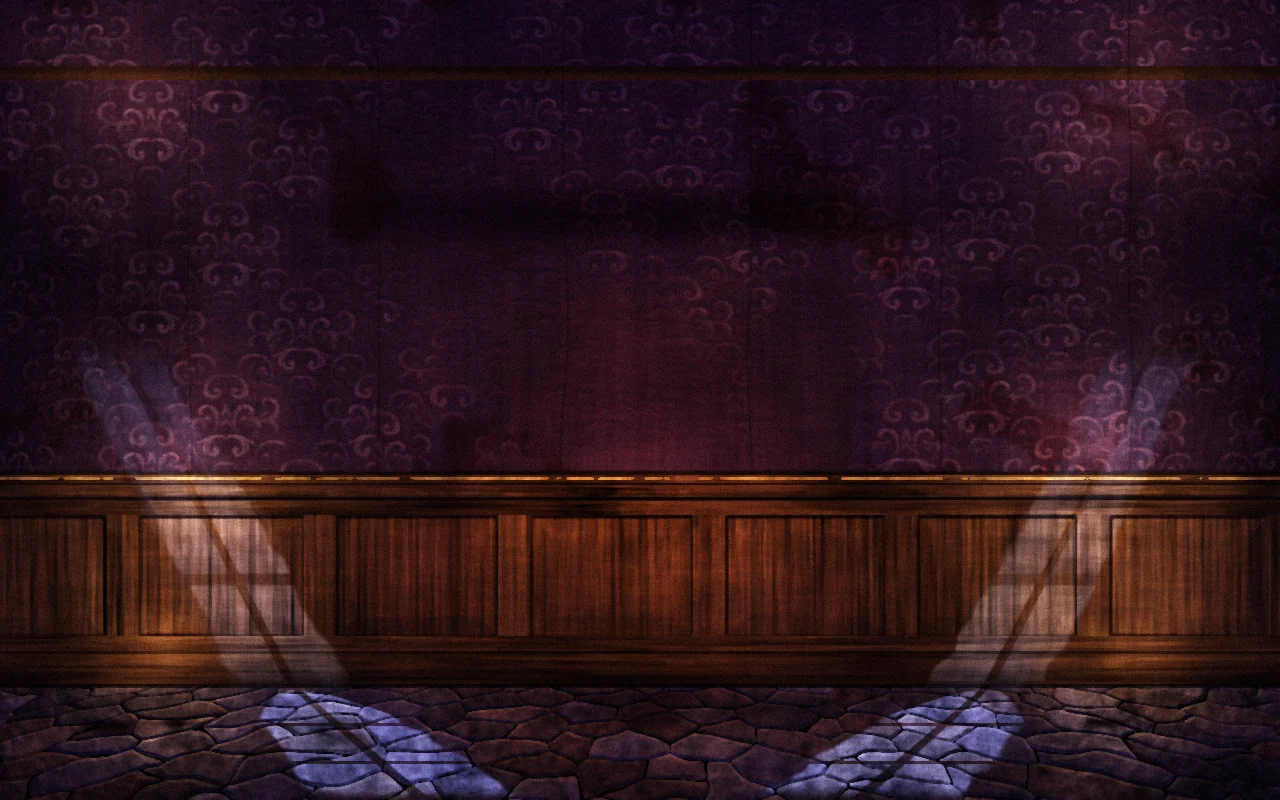
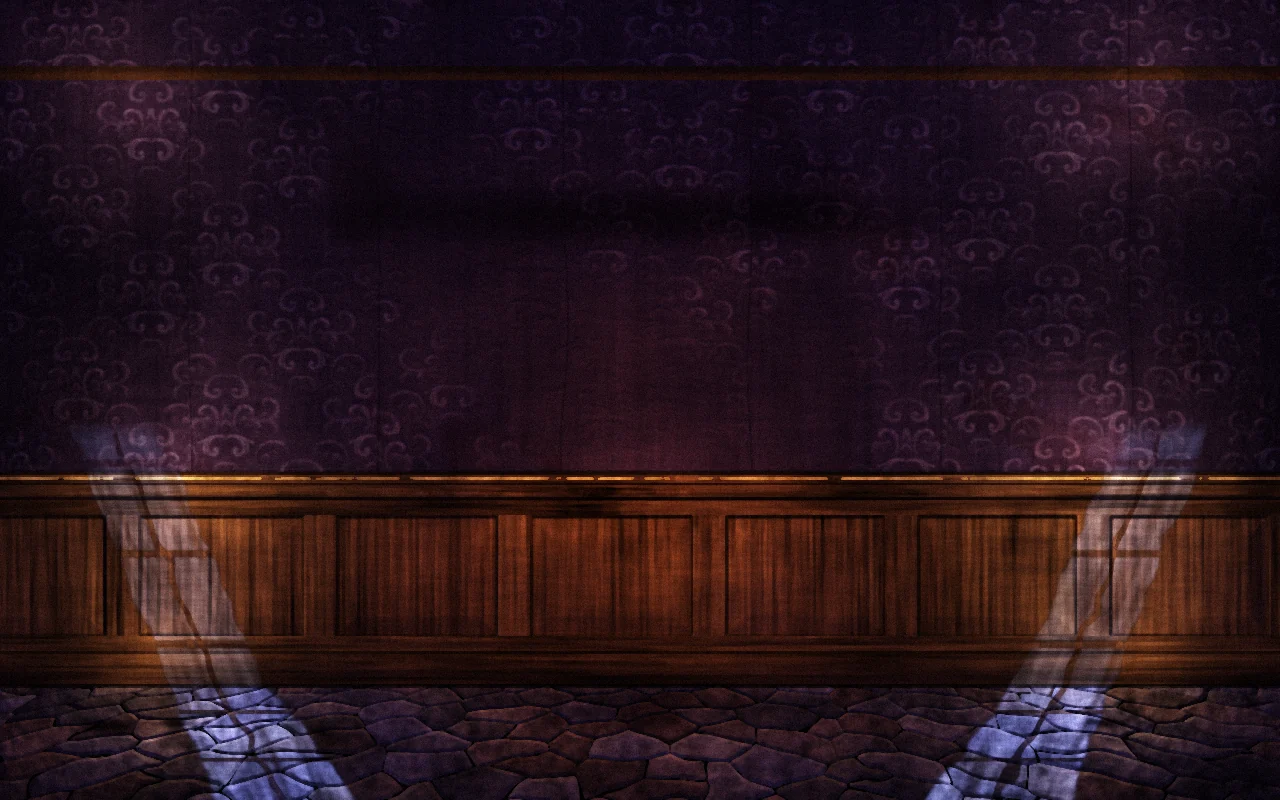
Round 57 graft onto JASPER: won 16 of 20 blind paired votes
CITRINE's scrolled condition plaques, memorial rows, full-height alcove, leather
well and Mr. Moth's plate; MALACHITE's torn leaf, slips and folded bookmark;
JASPER's own moon repainted as one shaft from sill to flags on aubergine paper.
A darker rug and stouter console lost all 4 votes on rest, so rest stays JASPER's.

Changed region(s): [[0.0625, 0.4375, 0.4062, 1.0], [0.5938, 0.4688, 0.9375, 1.0]]

diff --git a/game/src/scenes/event.css b/game/src/scenes/event.css
@@ -1269,34 +1269,37 @@
   .rm--event .kit-ground { background-image: url("../../assets/ui/r57-jasper/event-room-1280.webp"); }
 }
 
-/* Each choice is a slip of old card, torn by hand and scorched at the tear; its
-   shadow lies on the page. Held by the keys it is ringed in the clerk red, a
-   crisp line, never a glow. */
-.ev-register .ev-opt, .ev-register .ev-opt:first-child {
-  background: url("../../assets/ui/r57-jasper/slip-a.webp") 50% 50% / 100% 100% no-repeat;
-  filter: drop-shadow(1px 2px 1px color-mix(in srgb, var(--kit-paper-ink) 85%, transparent)) drop-shadow(3px 6px 4px color-mix(in srgb, var(--kit-paper-ink) 45%, transparent));
+/* Round57 graft, MALACHITE's: both judges named this sheet the best object in the round. A
+   handled leaf with torn sides, slips scorched in fibres with a real shadow on the page, and
+   the red ribbon as folded cloth. Held by the keys a slip is ringed in the clerk red. */
+.ev-painted-stand-r49 .ev-page.ev-register {
+ background: url("../../assets/ui/r57-malachite/parchment.webp") 0 0 / 100% 100% no-repeat;
+ background-blend-mode: normal; box-shadow: none;
+ border-color: transparent; border-image: none;
+ filter: none;
 }
-.ev-register .ev-opt:nth-child(2n) { background-image: url("../../assets/ui/r57-jasper/slip-b.webp"); }
-.ev-register .ev-opt:hover:not(:disabled), .ev-register .ev-opt:focus-visible {
-  background: radial-gradient(90% 120% at 22% 50%, color-mix(in srgb, var(--kit-parchment) 30%, transparent), transparent 70%), url("../../assets/ui/r57-jasper/slip-a.webp") 50% 50% / 100% 100% no-repeat;
-  filter: drop-shadow(2px 3px 1px color-mix(in srgb, var(--kit-paper-ink) 85%, transparent)) drop-shadow(4px 9px 5px color-mix(in srgb, var(--kit-paper-ink) 50%, transparent));
+.ev-register__fold { background: none; }
+.ev-painted-stand-r49 .ev-page.ev-register .ev-prose { --ink: #1c1009; color: #1c1009; }
+.ev-register .ev-opt,
+.ev-register .ev-opt:first-child {
+ background: url("../../assets/ui/r57-malachite/strip-a.webp") 50% 50% / 100% 100% no-repeat;
+ filter: drop-shadow(1px 2px 1px rgb(30 14 3 / .75)) drop-shadow(2px 5px 4px rgb(30 14 3 / .4));
 }
+.ev-register .ev-opt:nth-child(2) { background-image: url("../../assets/ui/r57-malachite/strip-b.webp"); }
+.ev-register .ev-opt:nth-child(3) { background-image: url("../../assets/ui/r57-malachite/strip-c.webp"); }
+.ev-register .ev-opt:hover:not(:disabled),
 .ev-register .ev-opt:focus-visible {
-  filter: drop-shadow(0 0 .6px var(--kit-ink-oxblood)) drop-shadow(0 0 .6px var(--kit-ink-oxblood)) drop-shadow(2px 4px 1px color-mix(in srgb, var(--kit-paper-ink) 85%, transparent)) drop-shadow(4px 9px 5px color-mix(in srgb, var(--kit-paper-ink) 50%, transparent));
+ background: radial-gradient(70% 120% at 22% 50%, rgb(255 206 128 / .34), transparent 70%), url("../../assets/ui/r57-malachite/strip-a.webp") 50% 50% / 100% 100% no-repeat;
+ filter: drop-shadow(2px 6px 4px rgb(30 14 3 / .7));
 }
-.ev-register .ev-opt.is-chosen { background: url("../../assets/ui/r57-jasper/slip-a.webp") 50% 50% / 100% 100% no-repeat; }
-/* The long edges of the leaf nibbled and browned; the paper goes on under the rail. */
-.ev-painted-stand-r49 .ev-page::after {
-  content: ''; position: absolute; inset: 0; z-index: 2; pointer-events: none;
-  border: 0 solid transparent;
-  border-image: url("../../assets/ui/r57-jasper/page-edge.webp") 64 / 22px 22px 0 22px round;
-  background: none; opacity: 1; filter: none; box-shadow: none;
+.ev-register .ev-opt:focus-visible { filter: drop-shadow(0 0 .6px var(--kit-ink-oxblood)) drop-shadow(0 0 .6px var(--kit-ink-oxblood)) drop-shadow(2px 6px 4px rgb(30 14 3 / .7)); }
+.ev-register .ev-opt.is-chosen { background: radial-gradient(80% 130% at 20% 50%, rgb(255 206 128 / .42), transparent 72%), url("../../assets/ui/r57-malachite/strip-a.webp") 50% 50% / 100% 100% no-repeat; }
+.ev-bookmark {
+ width: 42px; height: 111px; right: -7px; top: -15px; clip-path: none; box-shadow: none;
+ background: url("../../assets/ui/r57-malachite/bookmark.webp") 0 0 / 100% 100% no-repeat;
 }
-/* the moon medallion rides over the worn head of the leaf; the words keep their
-   full dark ink right to the end of a line, where the page browns */
+/* the moon medallion rides over the head of the leaf */
 .ev-painted-stand-r49 .ev-page[data-medal]::before { z-index: 3; }
-.ev-register .ev-prose p { color: var(--ink-900); }
-.ev-reading-r51 { background: linear-gradient(90deg, transparent 58%, color-mix(in srgb, var(--kit-parchment) 26%, transparent) 88%, transparent); }
 /* the numeral on the held slip brightens along its own rim; no blurred halo on the page */
 .ev-register .ev-opt:hover:not(:disabled)::before,
 .ev-register .ev-opt:focus-visible::before { filter: drop-shadow(0 0 .8px var(--kit-gold-hi)) drop-shadow(1px 3px 2px var(--kit-paper-ink)) brightness(1.22); }

diff --git a/game/src/scenes/gameover.css b/game/src/scenes/gameover.css
@@ -1629,32 +1629,45 @@
 @media (max-width: 1400px) {
   .go-ground.kit-ground { background-image: url("../../assets/ui/r57-jasper/gameover-room-1280.webp"); }
 }
-.go-wrap .go-altar.go-shrine::after {
-  -webkit-mask: url("../../assets/ui/r57-jasper/alcove-mask.webp") center / 100% 100% no-repeat;
-          mask: url("../../assets/ui/r57-jasper/alcove-mask.webp") center / 100% 100% no-repeat;
-  box-shadow: none;
-}
+/* Round57 graft, CITRINE's: rows in the plaque's cast rim with scrolled ends, four cuts of
+   velvet so no two neighbours repeat, and JASPER's worn gold coins on them. */
 .go-ledger[data-fold] .go-trick.go-trick {
-  border-image: url("../../assets/ui/r57-jasper/row-a.webp") 30 46 30 46 fill / 13px 20px stretch;
-  box-shadow: none; filter: drop-shadow(0 2px 2px var(--kit-void));
+ border: 0 solid transparent; border-image: url("../../assets/ui/r57-citrine/row-1.webp") 50 80 50 80 fill / 25px 40px / 0 stretch;
+ padding: 9px 34px 9px 24px; box-shadow: none; filter: drop-shadow(0 3px 2px color-mix(in srgb,var(--kit-void) 80%,transparent));
 }
-.go-ledger[data-fold] .go-trick.go-trick:nth-child(3n+2) { border-image-source: url("../../assets/ui/r57-jasper/row-b.webp"); }
-.go-ledger[data-fold] .go-trick.go-trick:nth-child(3n) { border-image-source: url("../../assets/ui/r57-jasper/row-c.webp"); }
+.go-ledger[data-fold] .go-trick.go-trick:nth-child(4n+2) { border-image-source: url("../../assets/ui/r57-citrine/row-2.webp"); }
+.go-ledger[data-fold] .go-trick.go-trick:nth-child(4n+3) { border-image-source: url("../../assets/ui/r57-citrine/row-3.webp"); }
+.go-ledger[data-fold] .go-trick.go-trick:nth-child(4n) { border-image-source: url("../../assets/ui/r57-citrine/row-4.webp"); }
 .go-ledger[data-fold] .go-trick.go-trick .go-trick__cost {
-  border: 0; border-radius: 50%; color: var(--ink-900);
+  --coin: 31px; border: 0; border-radius: 50%; color: var(--ink-900); padding-bottom: 1px; margin-left: -1px;
   background: url("../../assets/ui/r57-jasper/coin-a.webp") center / 100% 100% no-repeat;
   text-shadow: 0 1px 0 color-mix(in srgb, var(--kit-gold-hi) 62%, transparent);
-  box-shadow: 0 2px 3px var(--kit-void);
+  box-shadow: none; filter: drop-shadow(1px 2px 1px var(--kit-void));
 }
 .go-ledger[data-fold] .go-trick.go-trick:nth-child(3n+2) .go-trick__cost { background-image: url("../../assets/ui/r57-jasper/coin-b.webp"); }
 .go-ledger[data-fold] .go-trick.go-trick:nth-child(3n) .go-trick__cost { background-image: url("../../assets/ui/r57-jasper/coin-c.webp"); }
+.go-ledger[data-fold] .go-trick.go-trick .go-trick__n {
+ border-left: 0; padding-left: 10px;
+ background: linear-gradient(to right,color-mix(in srgb,var(--kit-gold-lo) 90%,transparent),var(--kit-void) 1px,transparent 3px) left center / 3px 76% no-repeat;
+}
+.go-ledger[data-fold] .go-trick.go-trick .go-trick__name { text-shadow: 0 1px 1px var(--kit-void), 0 0 3px color-mix(in srgb,var(--kit-void) 80%,transparent); }
+/* The alcove at the card's full height: carved columns that sink into shadow along a broken
+   line, and throw a cast shadow where a real niche would. */
+.go-wrap .go-altar.go-shrine::after {
+ background-image: url("../../assets/ui/r57-citrine/alcove.webp");
+ inset: -14px -12px -6px; box-shadow: none; filter: saturate(.86);
+}
+/* Leather depth in the featured card's rules well; its foil sweeps only the picture, so no
+   streak of light lies over the words. */
+.go-shrine .go-mvp__slot .mm-card__rules { background: url("../../assets/ui/r57-citrine/leather.webp") center / 100% 100% no-repeat; }
+.go-shrine .go-mvp__slot .mm-card__shimmer { -webkit-mask-image: linear-gradient(to bottom, black 24%, transparent 42%); mask-image: linear-gradient(to bottom, black 24%, transparent 42%); }
 .go-wrap .go-shrine .mm-card[data-rarity] .mm-card__cost {
   background: url("../../assets/ui/r57-jasper/coin-a.webp") center / 100% 100% no-repeat;
   text-shadow: 0 calc(1 * var(--u)) 0 color-mix(in srgb, var(--kit-gold-hi) 62%, transparent);
   box-shadow: 0 calc(3 * var(--u)) calc(4 * var(--u)) var(--kit-void);
 }
-/* the nameplate under the card wide enough that its letters clear the plate ends */
-.go-shrine .go-mvp__h { width: calc(100% + 84px); margin-inline: -42px; box-sizing: border-box; padding-inline: 26px; }
+/* The nameplate under the card wide enough that its letters clear the moulded ends. */
+.go-shrine .go-mvp__h.go-mvp__h { width: calc(100% + 84px); margin-inline: -42px; box-sizing: border-box; padding-inline: 40px; max-width: none; }
 .go-shrine .go-mvp__h .kit-plate__name { white-space: nowrap; }
 /* its candle glow no longer runs up into the scroller top, which cut it dead */
 .go-stage::before { top: 58%; width: 118%; aspect-ratio: 5 / 2; }

diff --git a/game/src/scenes/combat.css b/game/src/scenes/combat.css
@@ -3771,21 +3771,12 @@
 }
 .cb-fx-owner { border-image-source: url("../../assets/ui/r56-onyx/enamel-plaque.webp"); }
 
-/* Round57 JASPER: a condition word is lettered, not lit. Its colour stays its
-   meaning; the face browns toward the candle at the foot of each stroke and sits
-   on old lacquer in a warm gilt rim. A border image would paint over a clipped
-   text layer, so the same plate is drawn as background layers under it. Geometry,
-   packing and lifetime untouched: the padding box is the padding box it was. */
+/* Round57 graft, CITRINE's: both judges ranked JASPER's rectangular tags last here. The
+   condition words as paint on a warm base. Each word keeps its semantic colour and size; its
+   outline warms from ink to burnt umber, a gold lip stands under it in the same 1px the plaque
+   already reserves, and the face behind is umber lacquer over rubbed leaf. */
 .cb-num[data-actor-id]:not([data-actor-id=""]):is([data-kind="status"],[data-kind="buff"],[data-kind="debuff"],[data-kind="counter"],[data-kind="blocked"]) {
- border-image: none; padding: 1px 9px;
- background:
-   linear-gradient(180deg, color-mix(in srgb, currentColor 84%, var(--kit-parchment)) 14%, currentColor 52%, color-mix(in srgb, currentColor 74%, var(--kit-gold-hi)) 88%),
-   url("../../assets/ui/r57-jasper/plaque-l.webp") left center / auto 100% no-repeat,
-   url("../../assets/ui/r57-jasper/plaque-r.webp") right center / auto 100% no-repeat,
-   url("../../assets/ui/r57-jasper/plaque-m.webp") center / auto 100% repeat-x;
- -webkit-background-clip: text, border-box, border-box, content-box;
-         background-clip: text, border-box, border-box, border-box;
- -webkit-text-fill-color: transparent;
- -webkit-text-stroke: 0; text-shadow: none;
+ border-image-source: url("../../assets/ui/r57-citrine/cond-plaque.webp");
+ -webkit-text-stroke: 1px #2a1408; text-shadow: 0 1px 0 #7a5a2c, 1px 1px 0 #170b05;
 }
-.cb-fx-owner { border-image-source: url("../../assets/ui/r57-jasper/plaque.webp"); }
+.cb-fx-owner { border-image-source: url("../../assets/ui/r57-citrine/cond-plaque.webp"); }

diff --git a/game/src/scenes/shop.css b/game/src/scenes/shop.css
@@ -1526,12 +1526,9 @@
   text-shadow: 0 1px 0 color-mix(in srgb, var(--kit-gold-hi) 75%, transparent);
   filter: brightness(1.36) saturate(.95) drop-shadow(0 3px 3px var(--kit-void));
 }
-/* One continuous shelf behind the merchant, and his name hung from it on the curtain
-   below, clear of the edge, with room for both its lines inside the plate. */
+/* Round57 graft, CITRINE's: Mr. Moth stands on the shelf, mirror, then his plate, then a
+   clear lip of lit wood, so the plate is never cut off from him. */
+.scene--shop .sh-counter--cards .sh-keeper { top: 62px; }
+@media (max-width: 1400px) { .scene--shop .sh-counter--cards .sh-keeper { top: 88px; } }
 .scene--shop .sh-keeper::after { content: none; }
-.scene--shop .sh-counter--cards .sh-moth__name.kit-plate { padding-block: 5px 7px; translate: -50% 38px; }
-@media (max-width: 1400px) {
-  /* no curtain shows under the shelf at the Deck size: the plate is seated whole on its face */
-  .scene--shop .sh-counter--cards .sh-moth__name.kit-plate { translate: -50% 8px; }
-}
-
+.scene--shop .sh-keeper .sh-moth__name.sh-moth__name { top: calc(100% + 2px); padding-block: 5px 6px; filter: drop-shadow(0 4px 2px var(--kit-void)); }

diff --git a/tools/prep_r57_jasper.py b/tools/prep_r57_jasper.py
@@ -83,7 +83,7 @@ class Room:
         s.add = np.zeros((H, W, 3))    # air: light seen in the room, not on a surface
 
     # ── the wall ──────────────────────────────────────────────────────────────
-    def wall(s, top, bottom):
+    def wall(s, top, bottom, base=(.165, .095, .215), hi=(.56, .39, .66), foxing=.85):
         W, H = s.W, s.H
         m = (s.yy < bottom)[..., None]
         P, tw, th = tile(KIT / 'damask.webp', int(W * .118), W, H)
@@ -98,13 +98,13 @@ class Room:
         stain = fbm(H, W, 150, s.seed + 2)
         drip = aniso(H, W, 70, 2.2, s.seed + 3)
         pat = P * smooth(-1.4, .4, wear + .4)
-        base = np.array([.165, .095, .215])
-        hi = np.array([.56, .39, .66])
+        base = np.array(base)
+        hi = np.array(hi)
         A = mix(base[None, None], hi[None, None], np.clip(pat * .78, 0, 1))
         A *= (1 + .16 * stain[..., None]) * (1 + .05 * drip[..., None])
         # warm foxing and the paper going dark in tide marks
         fox = smooth(1.1, 1.9, fbm(H, W, 34, s.seed + 4))
-        A = mix(A, A * np.array([.72, .55, .5]), fox * .85)
+        A = mix(A, A * np.array([.72, .55, .5]), fox * foxing)
         s.A = np.where(m, A, s.A)
         s.R += (P * 2.6 + .35 * fbm(H, W, 3, s.seed + 5)) * m[..., 0]
         # the seams
@@ -385,64 +385,47 @@ class Room:
 
 # ── moonlight: a real casement falling across the room ───────────────────────
 def casement(s, cx, top, w, h, floor_y, lean, wains_y0, wains_y1, seed):
-    """Painted light from one lancet. `lean` is +1 toward screen right. Returns nothing; adds to s."""
+    """One shaft from the sill to the flags, one shape all the way: the same lean, the same
+    width and the same mullion in the air, on the wainscot and on the floor, so the window,
+    its light and its pool read as one thing. `lean` is +1 toward screen right."""
     H, W = s.H, s.W
     x, y = s.xx, s.yy
-    y0 = top + h * .5
-    # the shaft in the air: bands parted by the mullion and leads, leaning in,
-    # widening a little, broken along its length by brushed noise
-    t = (y - y0)
-    wid = w * .5 * (1 + np.clip(t, 0, None) / (H * 1.3))
-    cxt = cx + lean * t * .52
-    wob = 5 * noise(H, W, 26, seed)
-    u = (x - cxt + wob) / wid          # -1..1 across the shaft
-    edge = smooth(1.06, .86, np.abs(u))
-    bars = 1 - .9 * smooth(.10, .05, np.abs(u))
-    streak = 1 + .36 * aniso(H, W, 50, 3, seed + 1) + .2 * aniso(H, W, 120, 9, seed + 2)
-    # streak along the lean, not along the screen's vertical
-    sh = np.round(lean * (y - y0) * .52).astype(int)
-    xi = np.mod((x - sh).astype(int), W)
-    yi = y.astype(int)
-    streak = streak[yi, xi]
-    fall = smooth(0, 60, t) * (1 - .55 * smooth(0, floor_y - y0, t))
-    air = np.clip(edge * bars * streak * fall, 0, 2) * .082
-    s.add += air[..., None] * MOON * (y < floor_y + 6)[..., None]
-
-    # the same light landing: on the wainscot's panels...
-    ws = (y >= wains_y0) & (y <= wains_y1)
-    u2 = (x - (cxt)) / wid
-    v2 = (y - wains_y0) / (wains_y1 - wains_y0)
-    b = smooth(1.03, .92, np.abs(u2 + .05 * noise(H, W, 8, seed + 3)))
-    b *= 1 - .92 * smooth(.11, .07, np.abs(u2))
-    b *= 1 - .9 * smooth(.07, .04, np.abs(((v2 * 2.0 + .5) % 1) - .5))
-    land = np.clip(b, 0, 1) * ws
-    # ...and on the floor, the casement thrown long toward the room, arch last
-    fy = floor_y
-    yy = (y - fy)
-    fx0 = cx + lean * (fy - y0) * .52
-    span = H - fy
-    near = yy / span
-    # cast: width grows as it comes toward us; it leans further in
-    fcx = fx0 + lean * near * span * 1.15
-    fw = w * .62 * (1 + near * 1.05)
-    uf = (x - fcx) / fw
-    arch_top = .02 + .24 * np.abs(uf) ** 2.2
-    inside = smooth(1.02, .9, np.abs(uf + .04 * noise(H, W, 7, seed + 4)))
-    inside *= smooth(arch_top, arch_top + .03, near) * smooth(1.0, .86, near)
-    cross = 1 - .92 * smooth(.09, .05, np.abs(uf))
-    cross *= 1 - .9 * smooth(.055, .03, np.abs(((near * 3.0 + .5) % 1) - .5))
-    fl = np.clip(inside * cross, 0, 1) * (y >= fy)
-    mask = np.clip(land * .66 + fl, 0, 1) * (1 + .12 * noise(H, W, 5, seed + 5))
-    s.lamp(float(cx), float(top), 240.0, MOON, 0.0, 400.0)  # keep brush seeded
+    y0 = top + h * .92
+    k = .40
+    run = np.clip(y - y0, 0, None)
+    onfloor = np.clip(y - floor_y, 0, None)
+    # it lies down on the floor: leans further and spreads toward us
+    centre = cx + lean * (k * np.minimum(run, floor_y - y0) + k * 1.5 * onfloor)
+    half = w * .5 * (1 + .14 * np.minimum(run, floor_y - y0) / (floor_y - y0) + .55 * onfloor / (H - floor_y))
+    edgewob = .05 * noise(H, W, 9, seed)
+    u = (x - centre) / half + edgewob
+    shape = smooth(1.02, .9, np.abs(u)) * smooth(0, 26, y - y0)
+    # the leads: one mullion down the middle, one cross-bar each pane's height along the run
+    along = (np.minimum(run, floor_y - y0) + onfloor * 1.9) / (h * .46)
+    mull = 1 - .9 * smooth(.085, .045, np.abs(u))
+    bar = 1 - .86 * smooth(.055, .028, np.abs((along % 1) - .5))
+    pane = np.clip(shape * mull * bar, 0, 1)
+    # broken along its length by the air and the glass, never a clean slab
+    glass = 1 + .24 * aniso(H, W, 34, 2.6, seed + 1) + .14 * fbm(H, W, 14, seed + 2)
+    sh = np.round(lean * run * k).astype(int)
+    glass = glass[y.astype(int), np.mod((x - sh).astype(int), W)]
+    # in the air, on the paper
+    air = pane * glass * (y < wains_y0) * (1 - .35 * smooth(0, wains_y0 - y0, run)) * .135
+    air += pane * glass * ((y >= wains_y0) & (y < floor_y)) * .05
+    s.add += air[..., None] * MOON
+    # on what it lands on: cold on the warm panels, and brightest on the flags
+    land = pane * glass * (((y >= wains_y0) & (y < floor_y)) * 1.0 + (y >= floor_y) * 1.3)
     dx, dy = lean * 40.0, -90.0
     ndl = np.clip((dx * s.nx + dy * s.ny + 90 * s.nz) / np.sqrt(dx * dx + dy * dy + 90 * 90), 0, 1)
-    s.L += (mask * ndl * 2.25 * s.brush)[..., None] * MOON
-    # dust, hanging in the shaft
+    s.L += (land * ndl * 2.9 * s.brush)[..., None] * MOON
+    # the warm candle gives way inside the shaft, so the cold reads as cold
+    s.L *= (1 - .34 * (land > .1) * ((y >= wains_y0)))[..., None]
+    # dust, hanging in it
     r = np.random.default_rng(seed + 6)
     dust = np.zeros((H, W))
-    for _ in range(int(h * .55)):
+    for _ in range(int(h * .6)):
         ty = r.uniform(30, floor_y - y0)
-        px = cx + lean * ty * .52 + r.uniform(-1, 1) * w * .5 * (1 + ty / (H * 1.3))
+        px = cx + lean * ty * k + r.uniform(-1, 1) * w * .5
         py = y0 + ty
         ix, iy = int(px), int(py)
         if 1 <= ix < W - 1 and 1 <= iy < H - 1:
@@ -455,7 +438,7 @@ def casement(s, cx, top, w, h, floor_y, lean, wains_y0, wains_y1, seed):
 
 def event_room(W, H, g, name, seed):
     s = Room(W, H, seed)
-    s.wall(int(H * .083), g['rail'])
+    s.wall(int(H * .083), g['rail'], base=(.128, .088, .205), hi=(.43, .345, .635), foxing=.45)
     s.wainscot(g['rail'], g['floor'], g['panel'])
     s.flags(g['floor'], g['depth'], W / 2, g['cell'])
     s.normals()
